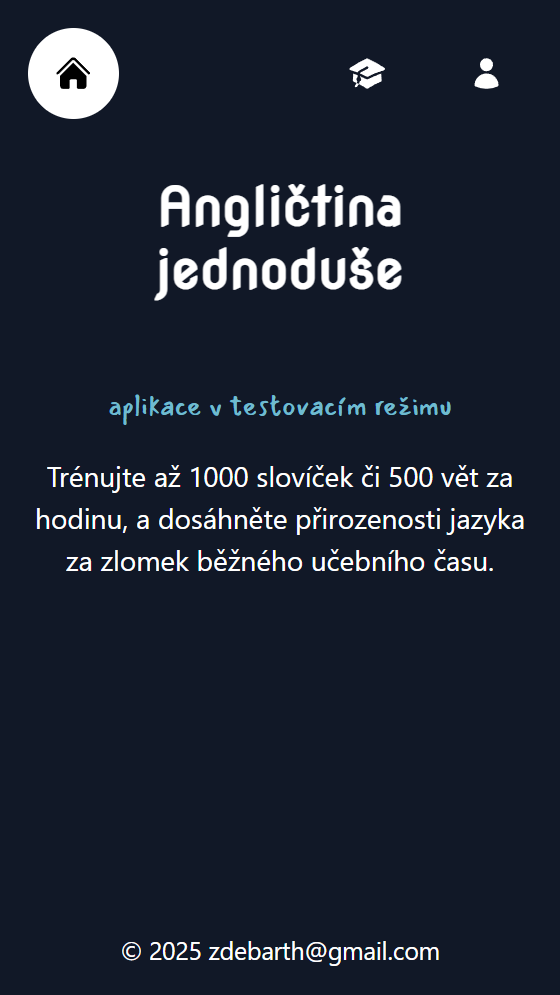
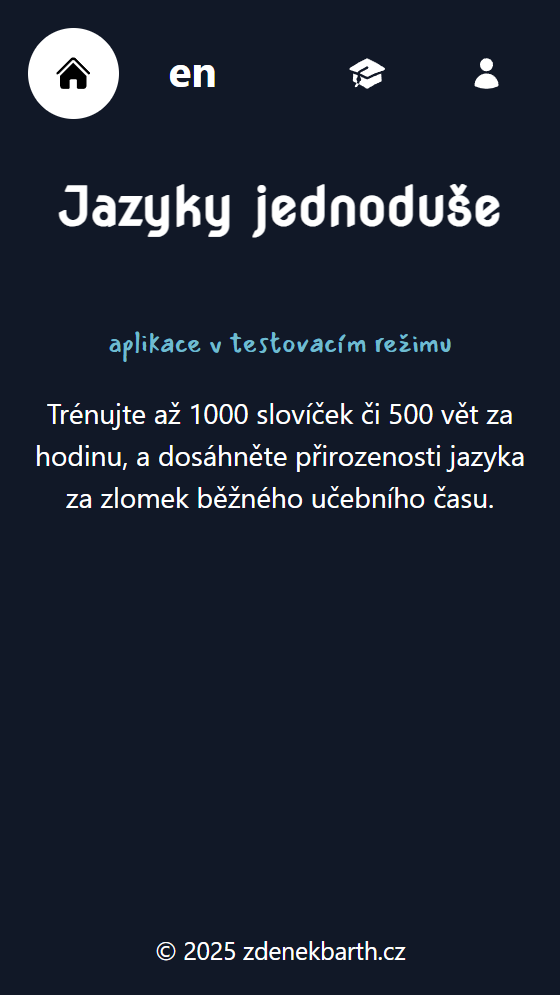
fca blog v0.1.0

diff --git a/my-next-app/src/app/projects/0/page.tsx b/my-next-app/src/app/projects/0/page.tsx
@@ -5,60 +5,88 @@ import Section from "@/components/Section";
 export default function FlashCardApp() {
   return (
     <main className="project-page">
+      <Section title="version v0.1.0">
+        <ul>
+          <h4>Changes</h4>
+          <li>Added multiple languages support (added Spanish vocabulary)</li>
+          <li>Added skip button</li>
+        </ul>
+        <h4>Testing</h4>
+        <p>
+          Testing new version was quite a wake-up call. All flashcard approach
+          works very well for correcting my english pronunctiation, but when I
+          tried it for initial learning of Spanish, memory retention of new
+          words was terrible.
+        </p>
+        <h4>Future changes</h4>
+        <ul>
+          <li>
+            Keep flashcard for longtem memory inprint, but it won&#39;t be used
+            for initial learning. Shuffle character of flashcards is great for
+            inprinting words in different context, but bad for initial learning.
+          </li>
+          <li>
+            Create smaller blocks of vocabulary and grammar, that will be first
+            drilled in isolation, before being further practiced with
+            flashcards.
+          </li>
+        </ul>
+        <h4>Next steps</h4>
+        <ol>
+          <li>
+            Finish my own english pronunciation correction - create and practice
+            at least 20k english words.
+          </li>
+          <li>
+            Create &quot;drill lesson&quot; for grammar and vocabulary. Because
+            I am the first tester, and I need to test it on language I dont
+            know, i probably would be or Spanish or German.
+          </li>
+        </ol>
+        <br />
+        <p>
+          Also I want to finish some Leetcode practice. I have done some
+          datastructure and algorithms course, it is easy, but I need practice
+          to automate it. So, 20k english words and Leetcode would take me about
+          2 months, after that I will create new version and continue with
+          development.
+        </p>
+      </Section>
       <Section title="Introduction">
         <p>
-          Like many others, I didn&#39;t learn English at school but rather by
-          being exposed to it online. Schools often fail to provide enough
-          practice for most students. Despite years spent in school, the amount
-          of practice is simply insufficient.
+          I was dissatisfied with existing language learning apps and wanted to
+          create a simple app that focuses only on the features I find useful.
+          Just focus on most important features and ideally lower time to
+          passive knowledge to minimum.
         </p>
       </Section>
       <Section title="Main Idea">
         <p>
           Ultimately, learning languages is about the sheer amount of practice
-          repetition to fully automate knowledge. This app is designed to
-          maximize the amount of practice you can manage per hour. It is easily
+          repetition to fully internalize knowledge. With fast pace it is easily
           achievable to practice 1,000 words or 500 sentences per hour.
         </p>
         <br />
-        <p>This is achiever by several key principles:</p>
-        <h4>Fast pace of practice</h4>
+        <p>
+          Basis structure is similar to common language learning approaches, so
+          I will only emphasize key differences:
+        </p>
+        <h4>Flashcards</h4>
         <li>
-          The greater the amount of daily repetition, the faster the learning
-          process.
+          The most time-efficient method, enabling a fast-paced practice. Both
+          vocabulary and grammar is taught in one continuous flow of flashcards.
         </li>
-        <h4>Speaking and listening</h4>
-        <li>
-          Listening and especially speaking are the hardest parts of language
-          learning. Focus exclusively on these from the start. Practicing
-          writing is slower and limits the number of daily repetitions, thereby
-          slowing down the learning process.
-        </li>
-        <h4>Continuous flow of practice</h4>
-        <li>
-          Vocabulary and grammar are learned in one continuous flow. Stress is
-          reduced by removing options—just follow what the app provides.
-        </li>
-        <h4>Flexible schedule</h4>
+        <h4>No fix schedule</h4>
         <li>
           Although there is a recommended amount of daily practice, there is no
           strict limit. You can practice for one minute or 10 hours per day.
+          This makes it easy to start practicing at any time of the day. Overall
+          daily practice time will quickly start to pile up.
         </li>
-        <h4>Visual Feedback</h4>
+        <h4>Listening and speaking</h4>
         <li>
-          The app visualizes progress across individual CEFR levels (Common
-          European Framework of Reference for Languages) from A1 (beginner) to
-          C2 (proficient). This motivates users to practice more and achieve
-          their goals sooner.
-        </li>
-        <br />
-        <p>Achieved through:</p>
-        <h4>Flashcards</h4>
-        <li>
-          Using only most time efficient methods. For me it is
-          &quot;flashcard&quot; method. It is very fast, can alternate
-          translation direction (EN to CZ, CZ to EN) , and incorporates both
-          vocabulary and grammar into single flow.
+          Exclusive emphasis on listening and speaking. Writing slows down
+          practice, and most people do not struggle with it.
         </li>
       </Section>
       <Section title="Links">
@@ -88,12 +116,20 @@ export default function FlashCardApp() {
           className="screenshot"
         />
       </Section>
+      <Section title="Language Selection">
+        <Image
+          src="/images/010.png"
+          alt="Image 1"
+          width={560}
+          height={995}
+          className="screenshot"
+        />
+      </Section>
       <Section title="User Dashboard">
         <h4>Procvičovat / Practice</h4>
         <p>
-          The app provides a continuous practice flow, eliminating the need to
-          switch focus between tasks. Simply click the button to start
-          practicing, and the app will handle the rest.
+          The only practice button. Will provide a continuous practice flow,
+          eliminating the need to switch focus between tasks.
         </p>
         <Image
           src="/images/002.png"
@@ -124,11 +160,6 @@ export default function FlashCardApp() {
         </p>
       </Section>
       <Section title="Practice Card">
-        <p>
-          This is the core of the app. Every word and sentence is practiced the
-          same way, in one continuous flow without chapters, levels, or lessons.
-          You can practice for a minute or an entire day.
-        </p>
         <h4>Context guide</h4>
         <p>
           Separate help pages are rarely read, so I generally use contextual
@@ -193,9 +224,8 @@ export default function FlashCardApp() {
           <h4>Scripts</h4>
           <p>Python, Google API</p>
           <p>
-            I downloaded the 10,000 most frequent English words and, using
-            various APIs, generated Czech translations, pronunciations, and
-            audio files.
+            Translation, pronunciation, and audio files are all generated using
+            Google Translate API and other.
           </p>
         </article>
         {/* Authentication */}
@@ -208,10 +238,10 @@ export default function FlashCardApp() {
           <h4>Database</h4>
           <p>PostgreSQL, Supabase for hosting</p>
           <p>
-            The database schema is quite simple, with just a few tables, but it
-            provides significant flexibility in organizing the practice flow.
-            Generally, some items are grouped together in various grammar blocks
-            and inserted into the basic practice sequence.
+            Basic SQL database schema. It is quite simple, with just a few
+            tables, but it provides significant flexibility in organizing the
+            practice flow. Generally, some items are grouped together in various
+            grammar blocks and inserted into the basic practice sequence.
           </p>
           <Image
             src="/images/007.png"
@@ -267,10 +297,10 @@ export default function FlashCardApp() {
           <h4>Testing</h4>
           <p>Vitest, Jest, React Testing</p>
           <p>
-            I initially created plethora of tests, only to realize that as I was
-            constantly changing features, I ended up spending about 50% of my
-            time rewriting the tests. Once the app stabilizes, I plan to add
-            comprehensive tests to cover all necessary cases.
+            I initially created numerous tests but realized that constant
+            feature changes required rewriting them, consuming about 50% of my
+            time. Once the app stabilizes, I plan to add comprehensive tests to
+            cover all necessary cases.
           </p>
         </article>
       </Section>
@@ -279,16 +309,29 @@ export default function FlashCardApp() {
           <p>
             Technical solution is the easy part. You just need to read the
             manual and apply it. Developing the desired user experience is the
-            hard part. You need to try and test a lot. It’s good to start with
-            the &quot;minimum viable product&quot; and develop from there.
+            hard part.
           </p>
+          <br />
+          <h4>Next time I will continue this way:</h4>
+          <ol>
+            <li>Start with planning as much as possible on paper.</li>
+            <li>
+              Even though planned still work in iteration from &quot;minimum
+              viable product&quot; and get to user testing as fast as possible.
+              Having original plan is great to limit scope, but it will for sure
+              change.
+            </li>
+          </ol>
         </section>
       </Section>
       <Section title="What&#39;s next?">
         <ol>
-          <li>Fill english data.</li>
-          <li>Adding more languages - Spanish and German</li>
-          <li>Release for public</li>
+          <li>Fill english, spanish, and later german data.</li>
+          <li>Test on myself, friends and relatives.</li>
+          <li>
+            If it will prove useful, I will consider finishing it and releasing
+            to public.
+          </li>
         </ol>
       </Section>
     </main>

diff --git a/my-next-app/src/components/Intro.tsx b/my-next-app/src/components/Intro.tsx
@@ -34,7 +34,7 @@ export default function Intro() {
       <article className="block">
         <p>
           <strong>Frontend:</strong> HTML, CSS, Tailwind CSS, JavaScript,
-          TypeScript, React, Vite, Vitest
+          TypeScript, React, Vite, Vitest, Wordpress
         </p>
         <p>
           <strong>Backend:</strong> Next.js, Node.js, Express.js, SQL,

diff --git a/my-next-app/src/data/cards.ts b/my-next-app/src/data/cards.ts
@@ -9,8 +9,9 @@ export type CardData = {
 export const cards: CardData[] = [
   {
     id: 0,
-    title: "English App",
-    description: "English in more natural, less stressing way.",
+    title: "Language App",
+    description:
+      "Language learning focused on maximizing daily spoken practice repetitions.",
     link: "/projects/0",
   },
 ];

diff --git a/my-next-app/src/styles/variables.css b/my-next-app/src/styles/variables.css
@@ -16,7 +16,7 @@
 
 @media (prefers-color-scheme: light) {
   body {
-    --background-color: #fcfbf8;
+    --background-color: white;
     --color: black;
     --card-shadow: 2px 2px 5px rgba(30, 30, 30, 0.5);
   }

diff --git a/my-next-app/src/app/projects/Projects.css b/my-next-app/src/app/projects/Projects.css
@@ -29,6 +29,6 @@
   margin: 10px 0px;
 }
 
-ol {
-  padding-left: 20px;
+li {
+  margin-left: 20px;
 }
